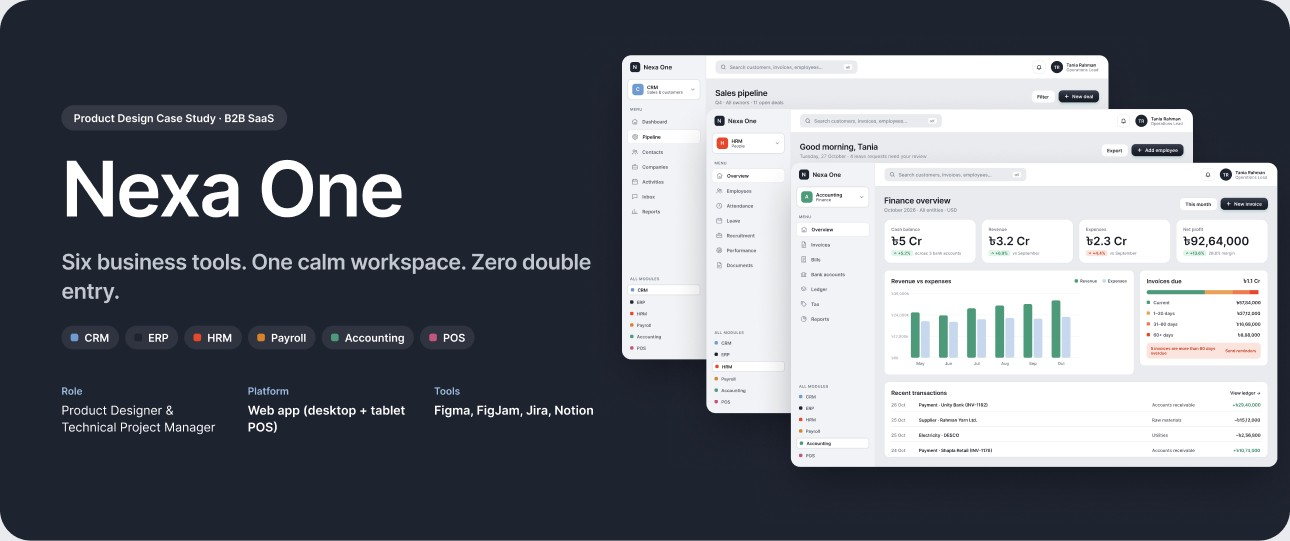
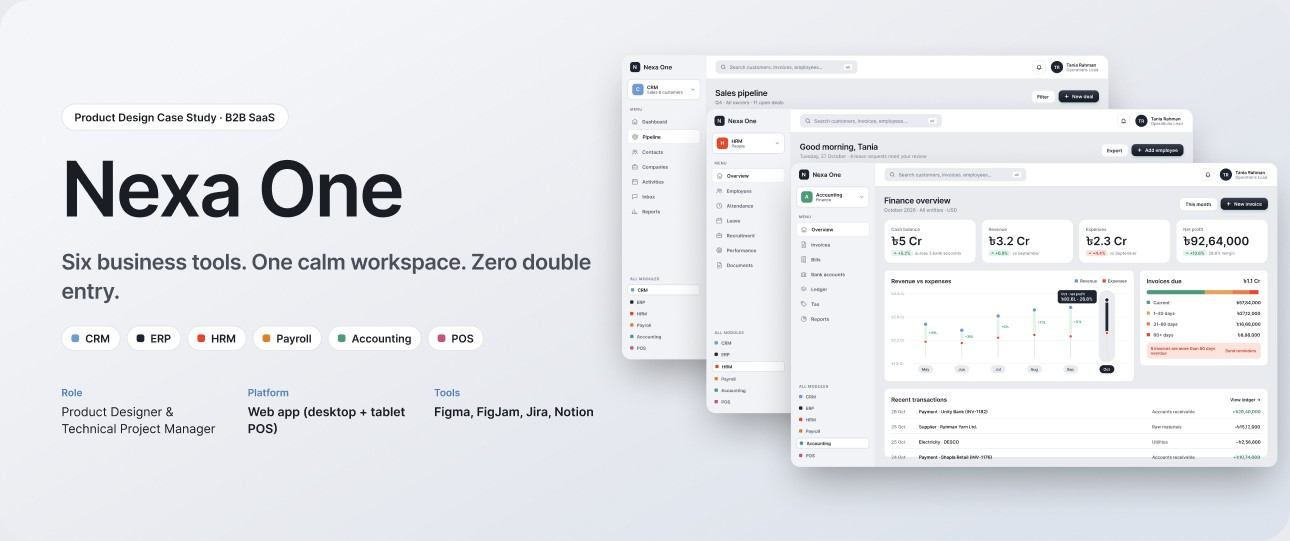
New case order (ROVEA, Shonchoy, Shuddhi, Nexa One, MoodBrew); light Nexa/Shonchoy covers; Nexa told as a 12-screen story with new revenue chart; ROVEA swatch fix
Claude-Session: https://claude.ai/code/session_01M2zW5Ljrh9KqFAeEV7Kt6D

diff --git a/app.js b/app.js
@@ -14,7 +14,10 @@ const P = [
     tags: ['B2B SaaS', 'Hypothesis-driven', 'Dashboards', 'Design system', 'RICE'],
     facts: [['Role', 'Product Designer & Technical Project Manager'], ['Platform', 'Web app + tablet POS'], ['Type', 'Concept project'], ['Tools', 'Figma, Jira, Notion']],
     caps: ['Overview', 'Problem & solution', 'Research & user roles', 'Eight problems, eight hypotheses', 'Solutions · six new screens', 'Information architecture', 'Cross-module flows', 'Design system', 'Final UI · 6 modules', 'Prioritisation & metrics'],
-    alts: ['Nexa One cover with three module dashboards', 'Problem, how-might-we and solution cards', 'Four user roles and three insights', 'Eight problem cards, each with a hypothesis, the designed solution and a success metric', 'Payroll pre-flight, duplicate check, POS offline mode, VAT challans, approvals inbox and customer dues screens', 'Six module menus on a shared data layer', 'Quote to cash, hire to pay and counter to stock flows', 'Shell anatomy, colour variables and shared components', 'CRM, ERP, HRM, Payroll, Accounting and POS screens with design decisions', 'RICE prioritisation table and success metrics']
+    caps: ['Overview', 'Meet Tania, operations lead', 'Morning · CRM sales pipeline', 'A twin record, caught before it’s saved', 'ERP · buying with live stock in view', 'One approvals inbox for every module', 'HRM · leave decided from the overview', 'Payroll · October run in four steps', 'Payroll pre-flight · why ৳36,146?', 'Accounting · revenue vs expenses, month by month', 'Customer dues · a polite baki khata', 'VAT · Mushak challans write themselves', 'POS · the counter during rush hour', 'POS · power cut, keep selling', 'Problems & hypotheses', 'Design system', 'Prioritisation & metrics'],
+    imgs: ['assets/nexa-00.jpg', 'assets/nexa-02.jpg', 'assets/nexa-s01.jpg', 'assets/nexa-s02.jpg', 'assets/nexa-s03.jpg', 'assets/nexa-s04.jpg', 'assets/nexa-s05.jpg', 'assets/nexa-s06.jpg', 'assets/nexa-s07.jpg', 'assets/nexa-s08.jpg', 'assets/nexa-s09.jpg', 'assets/nexa-s10.jpg', 'assets/nexa-s11.jpg', 'assets/nexa-s12.jpg', 'assets/nexa-03.jpg', 'assets/nexa-07.jpg', 'assets/nexa-09.jpg'],
+    notes: ['', '', '9:10 AM. Tania opens Nexa One. The pipeline shows ৳5.8 Cr open and the 38-day cycle is slower than Q3, so she starts with stuck deals.', 'A rep types “Rahman Tex Ltd”. Phone and BIN already match Rahman Textiles, so Nexa One offers to reuse it. One customer, one balance, one VAT number.', 'In ERP she sees cotton yarn at 120 kg next to the purchase requests, so she approves the yarn request first.', 'Discounts, purchase requests, leave and pay runs land in one inbox, already checked for margin, dues and stock.', 'Four leave requests are approved straight from the HRM overview, with attendance and headcount beside them.', 'The October run is blocked by three missing bank details. The banner says exactly who and how to fix it.', 'Before approving November, pre-flight splits pay by bKash, Nagad and bank, and every payslip explains its own number.', 'Each stick shows revenue (blue), expenses (red) and the profit between them, so the trend reads at a glance. October: ৳92.6L profit, 28.8% margin.', 'Overdue customers get a friendly reminder in their own language, and the POS warns before new credit.', 'Every sale already wrote its Mushak 6.3 challan, so the monthly 9.1 return is a draft to check, not two days of copying.', 'At the counter Rafi rings up an order with big tiles and quantity buttons, then takes cash, card or bKash.', 'When the power goes, sales keep saving on the tablet with their VAT challans and sync when the internet is back.', '', '', ''],
+    alts: ['Nexa One cover with CRM, HRM and Accounting screens', 'Four user roles and research insights', 'CRM sales pipeline kanban with deal values', 'Duplicate company check with a 92% match', 'ERP procurement requests with low-stock alerts', 'Approvals inbox with an automatic margin, dues and stock check', 'HRM overview with leave approvals and attendance', 'October payroll run with missing bank details warning', 'November payroll pre-flight by payout channel with a payslip breakdown', 'Accounting overview with a revenue and expenses lollipop chart', 'Customer dues by age with a reminder preview', 'VAT page with Mushak 6.3 challans and return readiness', 'POS counter with product tiles and order panel', 'POS offline mode during a power cut', 'Eight problem cards with hypotheses and metrics', 'Design system tokens and components', 'RICE prioritisation and success metrics']
   },
   {
     id: 'shonchoy', n: '04', title: 'Shonchoy',
@@ -51,8 +54,10 @@ const protoUrl = (id, embed) => {
   const p = FP[id]; const q = `node-id=${p.node}&starting-point-node-id=${p.node}&page-id=${p.page}&scaling=${p.d === 'phone' ? 'scale-down' : 'scale-down-width'}&content-scaling=fixed`;
   return embed ? `https://embed.figma.com/proto/5BtLWG4gRtr6r6JCMc1cQw/Portfolio?${q}&hide-ui=1&embed-host=joyeta-portfolio` : `https://www.figma.com/proto/5BtLWG4gRtr6r6JCMc1cQw/Portfolio?${q}`;
 };
-const ALL = [...P.filter(p => p.id === 'moodbrew'), ...P.filter(p => p.id !== 'moodbrew'), MORE];
-const img = (p, i) => `assets/${p.id}-${String(i).padStart(2, '0')}.jpg`;
+const ORDER = ['rovea', 'shonchoy', 'shuddhi', 'nexa', 'moodbrew'];
+const ALL = ORDER.map(id => [...P, MORE].find(p => p.id === id));
+ALL.forEach((p, k) => p.n = String(k + 1).padStart(2, '0'));
+const img = (p, i) => (p.imgs && p.imgs[i]) || `assets/${p.id}-${String(i).padStart(2, '0')}.jpg`;
 const card = (p, k) => `
 <a class="c10 rv" href="#case-${p.id}">
   <span class="c10-img"><img src="assets/${p.id}-thumb.jpg" alt="${p.alts[0]}" loading="lazy"></span>
@@ -102,7 +107,7 @@ layer.innerHTML = ALL.map((p, k) => {
       <div class="case-actions">${FP[p.id] ? `<a class="btn" href="#proto-${p.id}" data-jump="proto-${p.id}">▶ Try the prototype</a><a class="btn ghost" href="${protoUrl(p.id)}" target="_blank" rel="noopener">Open in Figma prototype ↗</a>` : `<a class="btn" href="${FIGMA}?node-id=203-2062" target="_blank" rel="noopener">Open in Figma ↗</a>`}<a class="btn ghost" href="#contact">Talk about this project</a></div>
     </div>
     ${protoSection(p)}
-    <div class="case-figs">${p.caps.map((c, i) => `<figure><figcaption>${String(i + 1).padStart(2, '0')} · ${c}</figcaption><div class="fig-frame"><img src="${img(p, i)}" alt="${p.alts[i]}" loading="lazy"></div></figure>`).join('')}</div>
+    <div class="case-figs">${p.caps.map((c, i) => `<figure><figcaption>${String(i + 1).padStart(2, '0')} · ${c}</figcaption>${p.notes && p.notes[i] ? `<p class="fig-note">${p.notes[i]}</p>` : ''}<div class="fig-frame"><img src="${img(p, i)}" alt="${p.alts[i]}" loading="lazy"></div></figure>`).join('')}</div>
     <div class="next-case"><span class="tag">Next</span><a href="#case-${nxt.id}">${nxt.title} →</a></div>
   </div></article>`;
 }).join('');

diff --git a/index.html b/index.html
@@ -1358,6 +1358,7 @@ body.v10 .pv-chrome span{background:#fff;color:#7C818B;border:1px solid #E3E5EA}
 body.v10 .next-case{background:var(--case,#151515);border-color:transparent}
 body.v10 .next-case .tag{color:rgba(255,255,255,.7)!important}
 body.v10 .next-case a{color:#fff}
+body.v10 .case-figs .fig-note{margin:-4px 0 4px;max-width:72ch;color:#5F5F5F;font:400 15px/1.6 var(--body)}
 </style>
 </head>
 <body class="v10">
@@ -1380,7 +1381,7 @@ body.v10 .next-case a{color:#fff}
     <div class="h10-stack" aria-hidden="true">
       <a class="st st1" href="#case-shuddhi"><img src="assets/shuddhi-thumb.jpg" alt=""></a>
       <a class="st st2" href="#case-shonchoy"><img src="assets/shonchoy-thumb.jpg" alt=""></a>
-      <a class="st st3" href="#case-moodbrew"><img src="assets/moodbrew-thumb.jpg" alt=""></a>
+      <a class="st st3" href="#case-rovea"><img src="assets/rovea-thumb.jpg" alt=""></a>
       <span class="st-tag">5 case studies · live prototypes</span>
     </div>
     <div class="h10-copy">
